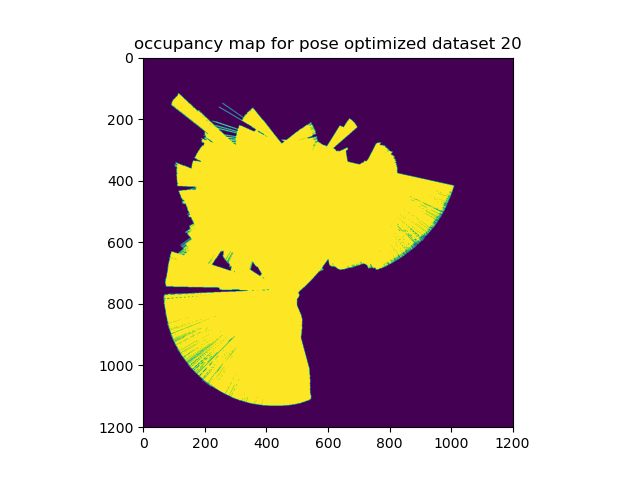
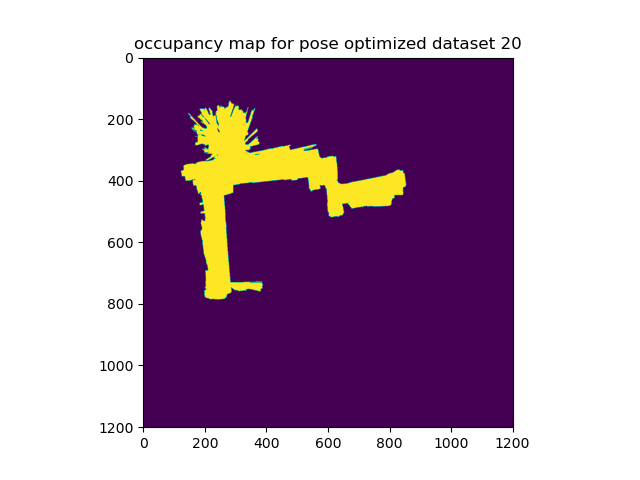
Git Factor Final

Changed region(s): [[0.25, 0.1875, 0.7188, 0.8438]]

diff --git a/code/factor_graph.py b/code/factor_graph.py
@@ -13,49 +13,48 @@ if __name__ == "__main__":
     odom = np.load(f"./output/{dataset}_odometry_trajectory_to_lidar.npy")
     odom_sm = np.load(f"./output/{dataset}_scan_matching.npy")
     poses = np.load(f"./output/{dataset}_poses.npy")
-    '''
-    with open(f'{dataset}_lidar_map_ownership.pkl', 'rb') as f:
+    
+    with open(f'./output/{dataset}_lidar_map_ownership.pkl', 'rb') as f:
         occupancy_overlap = pickle.load(f)
     
     print(len(list(occupancy_overlap.keys())))
-    '''
+    
     graph = gtsam.NonlinearFactorGraph()
-    prior_model = gtsam.noiseModel.Diagonal.Sigmas((.01, .01, .01))
+    prior_model = gtsam.noiseModel.Diagonal.Sigmas((.1, .1, .1))
     initial_estimate = gtsam.Values()
 
-    odometry_model = gtsam.noiseModel.Diagonal.Sigmas((.01, 0.01, .01))
+    odometry_model = gtsam.noiseModel.Diagonal.Sigmas((0.3, 0.3, 0.2))
     Between = gtsam.BetweenFactorPose2
     
     graph.add(gtsam.PriorFactorPose2(0, gtsam.Pose2(odom_sm[0,0], odom_sm[0,1], odom_sm[0,2]), prior_model))
-    n = 10
+    n = 30
     count = 0
     for t in tqdm(range(odom_sm.shape[0])):
         initial_estimate.insert(t,gtsam.Pose2(odom_sm[t,0], odom_sm[t,1], odom_sm[t,2]))
         if t != odom_sm.shape[0] - 1:
             count += 1
-            #graph.add(Between(t, t+1, gtsam.Pose2(odom_sm[t+1,0] - odom_sm[t,0],
-            #                                      odom_sm[t+1,1] - odom_sm[t,1],
-            #                                      odom_sm[t+1,2] - odom_sm[t,2]), odometry_model))
+
             graph.add(Between(t, t+1, gtsam.Pose2(odom_sm[t+1,0] - odom_sm[t,0],
                                                   odom_sm[t+1,1] - odom_sm[t,1],
-                                                  mat2euler(poses[t+1] @ np.linalg.inv(poses[t]))[2] ), odometry_model))
+                                                  mat2euler(poses[t+1] @ np.linalg.inv(poses[t]))[2] ),
+                                                  odometry_model))
+        '''
         if t!= 0 and t % n == 0:
             count += 1
             graph.add(Between(t-n, t, gtsam.Pose2(odom_sm[t,0] - odom_sm[t-n,0],
                                                   odom_sm[t,1] - odom_sm[t-n,1],
                                                   mat2euler(poses[t] @ np.linalg.inv(poses[t-n]))[2]), odometry_model))
-        '''
-        for j in range(t,odom_sm.shape[0]):
+                                                  '''
+        
+        for j in range(t,odom_sm.shape[0],n):
             if not occupancy_overlap[t].isdisjoint(occupancy_overlap[j]):
                 count +=1
                 graph.add(Between(t, j, gtsam.Pose2(odom_sm[j,0] - odom_sm[t,0],
                                                   odom_sm[j,1] - odom_sm[t,1],
-                                                  odom_sm[j,2] - odom_sm[t,2]), odometry_model))
-        '''
+                                                  mat2euler(poses[j] @ np.linalg.inv(poses[t]))[2]), 
+                                                  odometry_model))
                                                   
             
-            
-                                                  
     print("The number of constraints implemented:", count)
 
     # Optimize the initial values using a Gauss-Newton nonlinear optimizer

diff --git a/code/occupancy_mappy.py b/code/occupancy_mappy.py
@@ -50,7 +50,7 @@ if __name__ == '__main__':
     #plt.plot(x[:,0],x[:,1])
     lidar = load_lidar(dataset=dataset)
 
-    #lidar_map_ownership = {}
+    lidar_map_ownership = {}
 
     for t in tqdm(range(np.shape(lidar["time_stamps"])[0])):
       
@@ -63,23 +63,23 @@ if __name__ == '__main__':
       lidar_y = rot_coords[:,1] + x[t,1]
       lidar_x_index, lidar_y_index = cartesian_to_map_index(lidar_x, lidar_y)
       global_bot_x, global_bot_y = cartesian_to_map_index(x[t,0], x[t,1])
-      #a = set()
+      a = set()
       for row in range(lidar_x_index.shape[0]):
           try:
             free_cells = bresenham2D(global_bot_x, global_bot_y, lidar_x_index[row], lidar_y_index[row])
             free_cells = free_cells.astype(int)
             lidar_map[np.array(free_cells[0]), np.array(free_cells[1])] = 1
 
-            #a = a.union(set(map(lambda co: tuple(co),free_cells.T.tolist())))
+            a = a.union(set(map(lambda co: tuple(co),free_cells.T.tolist())))
             
           except IndexError:
             continue
-      #lidar_map_ownership[t] = a
+      lidar_map_ownership[t] = a
 
     
       
-    #with open(f'{dataset}_lidar_map_ownership.pkl','wb') as f:
-    #   pickle.dump(lidar_map_ownership,f)
+    with open(f'./output/{dataset}_lidar_map_ownership.pkl','wb') as f:
+       pickle.dump(lidar_map_ownership,f)
 
     first_map = (lidar_map*255).astype(int)
 
